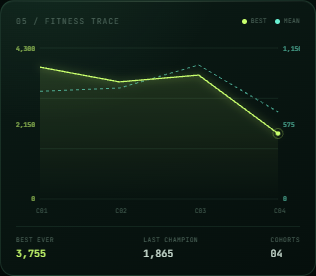
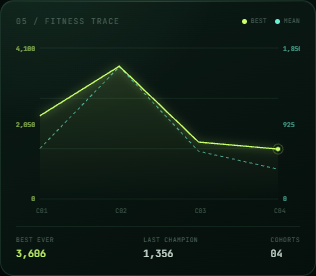
Give the policy its own kinematics
Every spatial channel in the observation is heading-relative, and the
worm's own motion was invisible. Two consequences:

- The observation was not Markov with respect to the control-relevant
  dynamics: a worm coasting at 170 u/s and one drifting at 30 u/s
  produced an identical wall reading, even though the first has to turn
  immediately. The wall channel told the policy where the edge was but
  not how fast it was closing on it, which is why seeing the wall was
  worth only ~10% on its own.
- The policy could not tell whether it was already turning away, because
  the plant's steering has a first-order lag and the current turn rate
  was unobservable.

Two channels close the gap: current speed over the maximum (0..1) and
current angular velocity over the maximum turn rate (-1..1). The
observation is now 32 channels and the actor and critic are
32 -> 24 -> 24 -> 2 and 32 -> 24 -> 24 -> 1 (2 861 parameters).

Paired across four seeds with an identical architecture and identical
initial weights - the two channels are simply zeroed in the control arm
so the RNG stream and the initialisation match exactly:

                        kinematics off   kinematics on
  median last-6 score         4 680           4 866
  median last-6 length         156 s           198 s
  wall-adjacent self-deaths       31              23
  wall deaths per arena second 0.0026          0.0018

A modest win rather than the unlock it looked like, because the wall
[…]

diff --git a/src/ppo/network.js b/src/ppo/network.js
@@ -3,10 +3,11 @@ import { gaussian } from '../sim/random.js';
 
 const FOOD_LABELS = ['F', 'FL', 'L', 'BL', 'B', 'BR', 'R', 'FR'];
 const HAZARD_LABELS = ['H·F', 'H·L', 'H·B', 'H·R'];
-const WALL_LABELS = ['W·F', 'W·L', 'W·B', 'W·R'];
-const WORM_LABELS = ['W·F', 'W·L', 'W·B', 'W·R'];
+const WALL_LABELS = ['E·F', 'E·L', 'E·B', 'E·R'];
+const WORM_LABELS = ['R·F', 'R·L', 'R·B', 'R·R'];
 const CHOMPER_LABELS = ['C·F', 'C·L', 'C·B', 'C·R'];
 const SELF_LABELS = ['S·P', 'S·B'];
+const KINEMATIC_LABELS = ['V', 'Ω'];
 
 const HALF_LOG_TWO_PI = 0.9189385332046727;
 const HALF_LOG_TWO_PI_E = 1.4189385332046727;
@@ -75,6 +76,20 @@ function createInputLayout() {
   inputs.push({ kind: 'self', index: 1, label: SELF_LABELS[1], x: 0.74, y: 0.44 });
   inputs.push({ kind: 'energy', index: 0, label: 'E', x: 0, y: 0.21 });
   inputs.push({ kind: 'bias', index: 0, label: 'B', x: 0, y: -0.17 });
+  inputs.push({
+    kind: 'kinematic',
+    index: 0,
+    label: KINEMATIC_LABELS[0],
+    x: -0.26,
+    y: -0.52,
+  });
+  inputs.push({
+    kind: 'kinematic',
+    index: 1,
+    label: KINEMATIC_LABELS[1],
+    x: 0.26,
+    y: -0.52,
+  });
   inputs.push({ kind: 'drift', index: 0, label: 'D·X', x: -0.3, y: -0.46 });
   inputs.push({ kind: 'drift', index: 1, label: 'D·Y', x: 0.3, y: -0.46 });
   return inputs;

diff --git a/src/sim/worm.js b/src/sim/worm.js
@@ -1,4 +1,4 @@
-import { CONFIG, OBSERVATION_COUNT, SENSOR_COUNT, WORLD } from '../config.js';
+import { CONFIG, KINEMATIC_COUNT, OBSERVATION_COUNT, SENSOR_COUNT, WORLD } from '../config.js';
 import { clamp, lerp } from './random.js';
 
 const FOOD_RAYS = 8;
@@ -321,8 +321,21 @@ export class Worm {
     for (let index = 0; index < SENSOR_COUNT; index += 1) {
       this.observation[index] = this.sensorValues[index];
     }
-    this.observation[SENSOR_COUNT] = this.identity[0];
-    this.observation[SENSOR_COUNT + 1] = this.identity[1];
+
+    // Kinematics. Every other channel is heading-relative, so without these
+    // the policy cannot tell "closing on the wall at 170" from "drifting at
+    // 30" - the same wall reading, completely different urgency.
+    const kinematics = this.config.ppo.observeKinematics;
+    this.observation[SENSOR_COUNT] = kinematics
+      ? clamp(this.speed / this.config.worm.maxSpeed, 0, 1)
+      : 0;
+    this.observation[SENSOR_COUNT + 1] = kinematics
+      ? clamp(this.angularVelocity / this.config.worm.turnRate, -1, 1)
+      : 0;
+
+    const driftBase = SENSOR_COUNT + KINEMATIC_COUNT;
+    this.observation[driftBase] = this.identity[0];
+    this.observation[driftBase + 1] = this.identity[1];
     return this.observation;
   }
 

diff --git a/index.html b/index.html
@@ -177,7 +177,7 @@
                   <strong id="leaderName">WORM 00</strong>
                   <span class="leader-tag">LEADER</span>
                 </div>
-                <span id="leaderPolicy">PPO 30 · 2L · 24H · 2</span>
+                <span id="leaderPolicy">PPO 32 · 2L · 24H · 2</span>
               </div>
               <div class="leader-score">
                 <span>FITNESS</span>
@@ -248,7 +248,7 @@
           <section class="panel brain-panel">
             <div class="section-heading">
               <span>04 / POLICY ACTIVITY</span>
-              <strong id="policySignature">PPO 30 · 2L · 24H · 2</strong>
+              <strong id="policySignature">PPO 32 · 2L · 24H · 2</strong>
             </div>
             <div class="brain-stage">
               <canvas id="brainCanvas" aria-label="Live PPO actor-critic network visualization"></canvas>
@@ -278,7 +278,7 @@
               </div>
             </div>
             <div class="brain-foot">
-              <span id="brainArchitecture">30 → 2L · 48H → 2</span>
+              <span id="brainArchitecture">32 → 2L · 48H → 2</span>
               <span id="brainLinkCount">— WEIGHTS</span>
               <span><i></i> LIVE</span>
             </div>

diff --git a/src/config.js b/src/config.js
@@ -78,6 +78,7 @@ export const CONFIG = Object.freeze({
   },
   ppo: {
     hiddenSizes: [24, 24],
+    observeKinematics: true,
     gamma: 0.99,
     gaeLambda: 0.95,
     clipRatio: 0.2,
@@ -99,7 +100,8 @@ export const CONFIG = Object.freeze({
 });
 
 export const SENSOR_COUNT = 8 + 4 + 4 + 4 + 4 + 2 + 1 + 1;
-export const OBSERVATION_COUNT = SENSOR_COUNT + 2;
+export const KINEMATIC_COUNT = 2;
+export const OBSERVATION_COUNT = SENSOR_COUNT + KINEMATIC_COUNT + 2;
 
 export const WORM_PALETTE = [
   '#b9ff6a',

diff --git a/src/ui/dashboard.js b/src/ui/dashboard.js
@@ -55,6 +55,8 @@ function inputColor(kind) {
   if (kind === 'chomper') return '#ff9b71';
   if (kind === 'self') return '#c9a0ff';
   if (kind === 'energy') return '#ffc96b';
+  if (kind === 'kinematic') return '#5ee7f0';
+  if (kind === 'drift') return '#7f96a8';
   return '#85a99a';
 }
 

diff --git a/README.md b/README.md
@@ -48,13 +48,13 @@ no PyTorch, no TensorFlow, no ML dependency at all.
 - **PPO from scratch** — Gaussian actor, separate value critic, clipped surrogate
   objective, clipped value loss, entropy bonus, global gradient-norm clipping, and
   Adam, all implemented on `Float32Array`s with hand-written forward and backward
-  passes. 2 765 parameters, ~110 ms for a full update.
+  passes. 2 861 parameters, ~110 ms for a full update.
 - **Parallel on-policy rollouts** — all ten worms are sampled in lockstep, so one
   policy update consumes a full cohort of trajectories. A cohort ends only when the
   last worm in it is dead.
 - **28-channel sensorium** — 8 food rays, 4 hazard rays, 4 wall rays, 4 rival-worm
-  rays, 4 chomper rays, 2 self-body rays, energy, and bias, plus a 2-channel per-worm
-  drift vector.
+  rays, 4 chomper rays, 2 self-body rays, energy, and bias, plus the worm's own speed,
+  spin rate, and a 2-channel per-worm drift vector.
 - **Body-aware worms** — 15-segment bodies, self-collision, worm-to-worm collision,
   wall response, and lethal energy loss.
 - **Chomper patrol** — three predators that wander, chase, lunge, bite, digest, and
@@ -142,7 +142,7 @@ live in `docs/screenshots/`.
 
 ```mermaid
 flowchart LR
-    A["Sense<br/>28 sensors + drift"] --> B["Act<br/>actor samples a motor command"]
+    A["Sense<br/>32 channels"] --> B["Act<br/>actor samples a motor command"]
     B --> C["Move<br/>steering, thrust, body, energy"]
     C --> D["Interact<br/>food, toxins, chompers, bodies"]
     D --> E["Reward<br/>delta of the fitness terms"]
@@ -184,12 +184,12 @@ The consequence is visible in the data: an untrained policy loses its wave in ab
 
 | | |
 | --- | --- |
-| Actor | `30 → 24 → 24 → 2`, tanh hidden layers, linear output |
-| Critic | `30 → 24 → 24 → 1`, a **separate** network so a bad value estimate can never poison the policy gradient |
-| Parameters | 1 394 actor + 1 369 critic + 2 log-std = **2 765** |
+| Actor | `32 → 24 → 24 → 2`, tanh hidden layers, linear output |
+| Critic | `32 → 24 → 24 → 1`, a **separate** network so a bad value estimate can never poison the policy gradient |
+| Parameters | 1 442 actor + 1 417 critic + 2 log-std = **2 861** |
 | Action distribution | Diagonal Gaussian with a state-independent log-std |
 | Motor mapping | `turn = tanh(1.8·u₀)`, `thrust = σ(2.2·u₁)` |
-| Observation | 28 sensors (all in `[0, 1]`) + a 2-channel drift vector |
+| Observation | 28 sensors (all in `[0, 1]`) + speed, spin, and a 2-channel drift vector |
 
 **The 26th and 27th channels matter.** A single policy driving ten worms makes the
 cohort behave like one body: identical headings, mutual collisions, and a lot of
@@ -261,19 +261,20 @@ instead of blocking the render loop for 110 ms.
 
 ## Does it actually learn?
 
-Measured over a single 400 000-step run (55 cohorts, one fixed arena):
+Measured over a single 400 000-step run (66 cohorts, one fixed arena):
 
 | Metric | First 6 cohorts | Middle 6 | Last 6 | Change |
 | --- | ---: | ---: | ---: | ---: |
-| Mean cohort fitness | 1 350 | 1 221 | 4 338 | **+221%** |
-| Mean cohort length (seconds alive) | 73 s | 61 s | 172 s | **+136%** |
-| Best single cohort | — | — | 38 671 | — |
-| Longest single cohort | — | — | 302 s | — |
+| Mean cohort fitness | 1 464 | 2 203 | 4 343 | **+197%** |
+| Mean cohort length (seconds alive) | 70 s | 92 s | 164 s | **+134%** |
+| Best single cohort | — | — | 34 514 | — |
+| Longest single cohort | — | — | 263 s | — |
 
 The second row is the one that matters most: a cohort is only scored once it has
 been *wiped out*, so the score measures how long the policy kept its worms alive
 against a hostile arena. The last cohorts survive more than twice as long as the
-first ones, and the best single cohort scored 38 671 across five minutes of survival.
+first ones, and the best single cohort scored 34 514 across four and a half minutes
+of survival.
 
 The same build, before the policy gradient was corrected, *degraded* instead of
 improving — the policy learned to stop foraging and die within seconds. That failure
@@ -383,6 +384,8 @@ it and drifts back into the arena rather than stopping dead.
 | Self body | 2 | — | How tightly the head is folded against its own trailing segments, and which side that body lies on |
 | Energy | 1 | — | Current energy normalized to maximum |
 | Bias | 1 | — | Constant `1` |
+| Speed | 1 | 170 | Current speed over the maximum, so the policy can tell "closing on the wall at 170" from "drifting at 30" |
+| Spin | 1 | 2.65 | Current angular velocity over the maximum turn rate, in `[-1, 1]` |
 | Drift | 2 | — | A per-worm random unit vector, re-rolled each cohort |
 
 Food uses eight rays around the heading. Hazard, wall, rival, and chomper channels
@@ -391,6 +394,19 @@ the other worm's head, so body contact is represented too. The two self channels
 worm feel its own body: one reports how far the head has folded back onto its
 trailing segments, the other reports which side that body lies on, so a coil can be
 unwound before it becomes a lethal self-collision.
+
+**Every spatial channel is heading-relative**, which is why the last four inputs
+matter. The speed and spin channels are the only way the policy knows anything about
+its own motion: without them, a worm coasting at 170 u/s and one drifting at 30 u/s
+produce an identical wall reading, even though the first has to turn *now*. With
+them the observation is Markov with respect to the control-relevant dynamics.
+
+**There is deliberately no absolute heading.** The arena is a fixed seed, so a
+world-frame reference would let the policy memorise the bloom layout and drive to it
+instead of learning to forage — a much better score for a much worse policy. The
+per-worm drift vector is a constant, so it acts as a per-worm bias rather than a
+frame of reference, and it breaks the symmetry of ten clones sharing one policy
+without handing any of them a shared world map.
 
 ---
 
@@ -451,9 +467,7 @@ Two changes fixed it:
 
 1. **A wall channel.** Four heading-relative rays (front, left, back, right) report
    the distance to the boundary within 210 units, so the policy can see the edge
-   before it touches it. This is worth roughly 10 % of the final cohort score once
-   the trap below is gone (paired across four seeds, it wins 3/4 on both score and
-   survival time).
+   before it touches it.
 2. **A slide instead of a pin.** A wall hit now redirects the head along the boundary
    tangent, with a gentle drift back into the arena, instead of stopping it dead. The
    body stays in a line behind the head instead of piling into it.
@@ -466,8 +480,33 @@ after:   self-collision deaths   3   total deaths 229
 ```
 
 Self-collision deaths fell by 97 %, and cohorts that used to end after 30 seconds now
-run for minutes — the longest measured cohort survived **302 seconds** before the
+run for minutes — the longest measured cohort survived **263 seconds** before the
 chompers finished it.
+
+### Seeing the wall is not enough on its own
+
+With the wall visible but the head still pinned, the channel was worth only ~10 %:
+the policy could see the edge but not how fast it was closing on it. A worm coasting
+at 170 u/s and one drifting at 30 u/s produced an *identical* wall reading, even
+though the first has to turn immediately. The observation was missing the one
+quantity needed to act on the perception.
+
+Adding the worm's own **speed** and **spin rate** to the state closes that gap and
+makes the observation Markov with respect to the control-relevant dynamics. Paired
+across four seeds with an identical architecture and identical initial weights (the
+two channels are simply zeroed in the control arm):
+
+| | kinematics off | kinematics on |
+| --- | ---: | ---: |
+| Median last-6 cohort score | 4 680 | **4 866** |
+| Median last-6 cohort length | 156 s | **198 s** |
+| Wall-adjacent self-deaths | 31 | **23** |
+| Wall-adjacent deaths per second of arena time | 0.0026 | **0.0018** |
+
+A modest win rather than the unlock it looked like — because the slide fix had
+already removed the trap that made the perception matter. What the channels buy is a
+state that is actually sufficient: the policy can now work out its own closing speed
+and whether it is already turning away.
 
 ---
 
